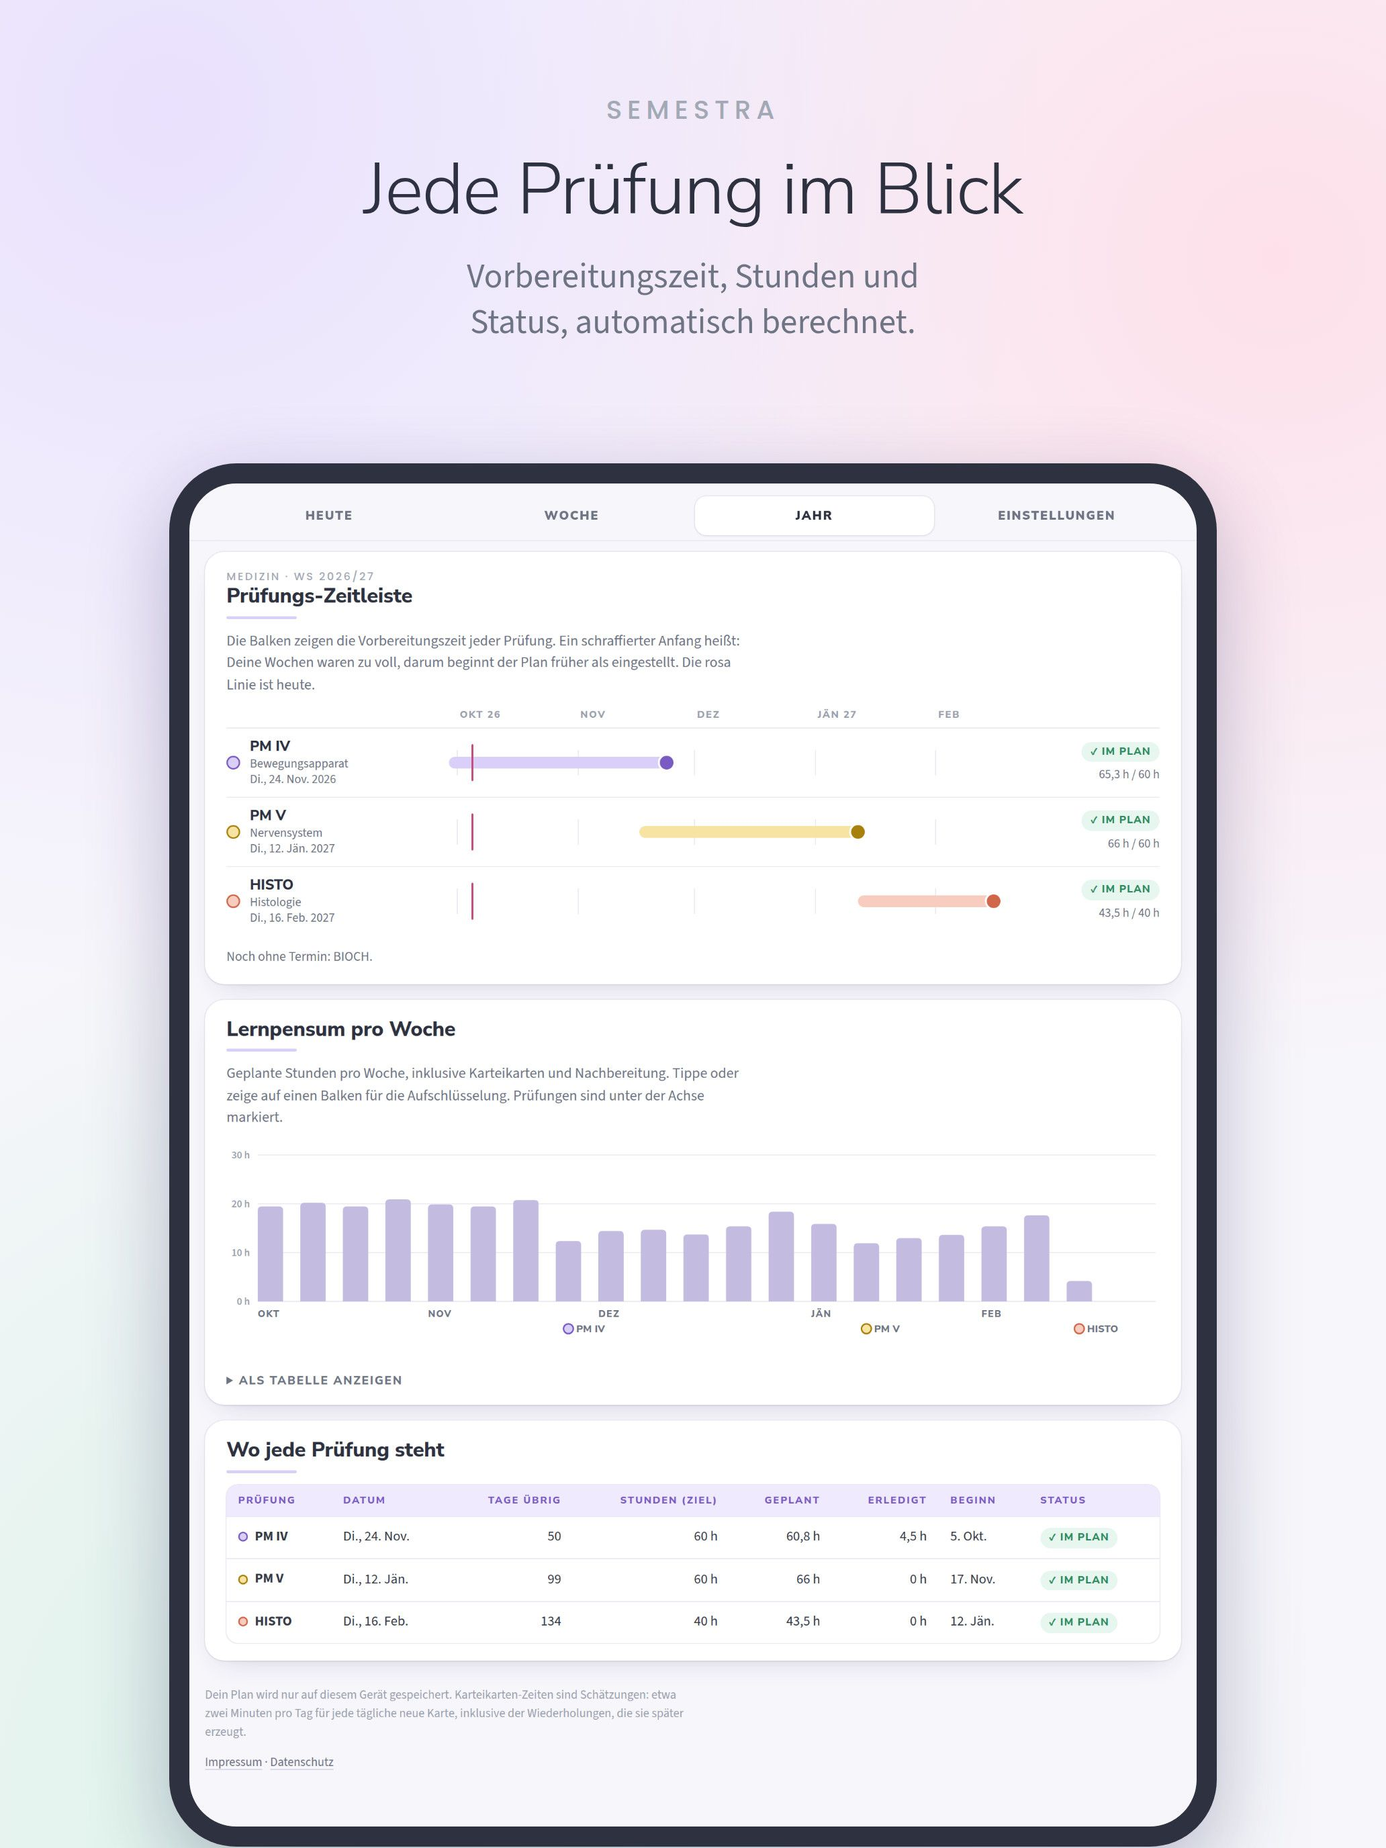
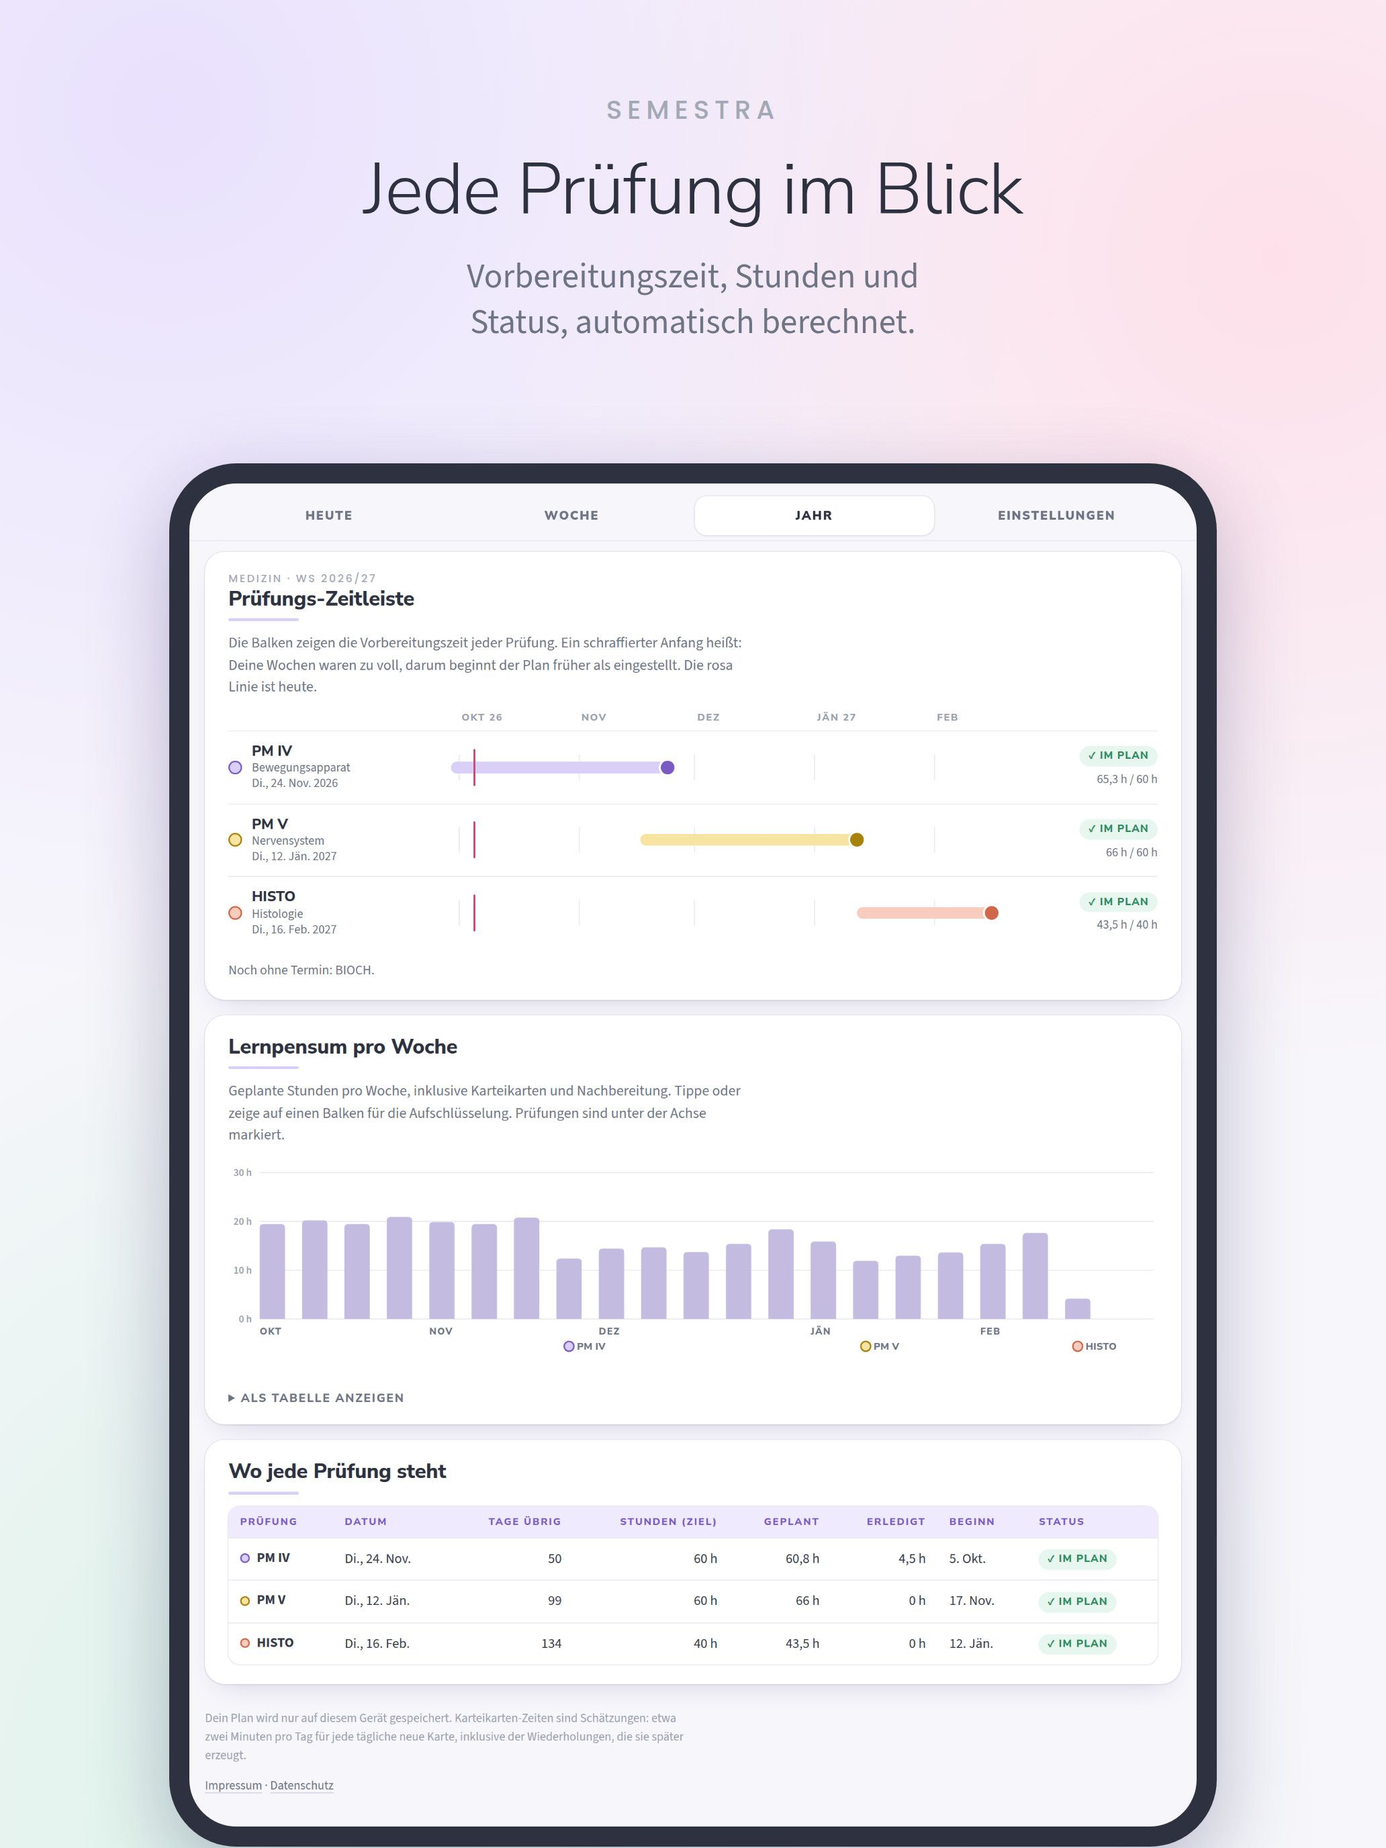
Make spacing, headings and labels uniform across the app
Measured every view (setup assistant, Today, Week, Year, Setup with all
sections open, a dialog) and removed the outliers:
- one inner spacing for all cards (--card-py/--card-px), incl. the header,
  the week card, the setup-assistant card and Setup folds; 20px corners
- one card heading style: Setup fold titles and Today's side-card titles
  use the h2 look
- header stats look like the pills and chips (pale, dashed)
- agenda tags match the status tags
- all list rows in Setup 12px apart; inputs exactly 40px with 12px corners

Claude-Session: https://claude.ai/code/session_01E171zcFhx6uJd6jSp7rjZZ

diff --git a/src/styles/legacy.css b/src/styles/legacy.css
@@ -106,7 +106,7 @@ button{cursor:pointer}
 .num{font-variant-numeric:tabular-nums}
 
 /* ============ masthead (cover blobs, kicker, light H1) ============ */
-.mast{position:relative;overflow:hidden;overflow:clip;isolation:isolate;border-radius:24px;background:var(--sheet);box-shadow:var(--raise);padding:24px clamp(18px,4vw,34px) 22px}
+.mast{position:relative;overflow:hidden;overflow:clip;isolation:isolate;border-radius:20px;background:var(--sheet);box-shadow:var(--raise);padding:var(--card-py) var(--card-px)}
 .blob{position:absolute;border-radius:50%;z-index:-1;pointer-events:none}
 .blob.b1{width:420px;height:420px;left:-170px;top:-220px;background:radial-gradient(circle,var(--blob1) 0%,transparent 68%)}
 .blob.b2{width:460px;height:460px;right:-190px;top:-150px;background:radial-gradient(circle,var(--blob2) 0%,transparent 68%)}
@@ -120,8 +120,7 @@ button{cursor:pointer}
 .mdots{position:absolute;right:22px;top:24px;display:flex;gap:6px}
 .mdots i{width:9px;height:9px;border-radius:50%}
 .stats{display:flex;flex-wrap:wrap;gap:8px;margin-top:16px}
-.stat{display:inline-flex;align-items:center;gap:8px;padding:6px 12px;border-radius:999px;background:var(--sheet);box-shadow:0 0 0 1px var(--line);font-size:13.5px;color:var(--ink-soft)}
-.stat b{color:var(--ink-strong);font-weight:700}
+.stat{display:inline-flex;align-items:center;gap:7px;border-radius:999px;white-space:nowrap}
 .dot{width:10px;height:10px;border-radius:50%;flex:none;background:var(--acc-mid,var(--grey-mid));box-shadow:inset 0 0 0 1.5px var(--acc,var(--grey))}
 .dot.lg{width:14px;height:14px}
 
@@ -132,11 +131,9 @@ button{cursor:pointer}
 .banner{margin:0 0 14px;padding:10px 14px;border-radius:14px;background:var(--info-bg);color:var(--info-fg);font-size:14px}
 
 /* ============ cards + handbook headings ============ */
-.card{background:var(--sheet);border-radius:20px;box-shadow:var(--raise);padding:18px clamp(14px,3vw,22px)}
+.card{background:var(--sheet);border-radius:20px;box-shadow:var(--raise);padding:var(--card-py) var(--card-px)}
 .h2{position:relative;margin:0;padding-bottom:10px;font:800 21px/1.22 var(--f-head);letter-spacing:-.005em;color:var(--ink-strong);text-wrap:balance}
 .h2::after{content:"";position:absolute;left:0;bottom:0;width:72px;height:3px;border-radius:3px;background:var(--acc-mid,var(--lav-mid))}
-.h3{display:flex;align-items:center;gap:9px;margin:0 0 10px;font:800 16px/1.28 var(--f-head);color:var(--ink-strong)}
-.h3::before{content:"";width:8px;height:8px;border-radius:50%;background:var(--acc,var(--lav));opacity:.8;flex:none}
 .sub{margin:12px 0 14px;color:var(--ink-soft);max-width:72ch;font-size:15px}
 .pill{display:inline-flex;align-items:center;gap:6px;padding:2px 11px;border-radius:999px;background:var(--acc-bg,var(--grey-bg));color:var(--acc,var(--grey));font:700 13px/1.5 var(--f-body);letter-spacing:.01em;white-space:nowrap}
 .pills{display:flex;flex-wrap:wrap;gap:6px;margin-top:12px}
@@ -182,7 +179,7 @@ button{cursor:pointer}
 .clsbar .cn{font-size:14px;color:var(--ink-soft)}
 .clsbar.tent{background:repeating-linear-gradient(135deg,var(--grey-bg) 0 6px,var(--sheet) 6px 12px)}
 .clsbar.est{background:transparent;box-shadow:inset 0 0 0 1.5px var(--grey-mid)}
-.tag{display:inline-block;padding:1px 8px;border-radius:999px;background:var(--sheet);box-shadow:0 0 0 1px var(--line-2);font:800 10px/1.6 var(--f-head);letter-spacing:.08em;text-transform:uppercase;color:var(--ink-soft)}
+.tag{display:inline-block;padding:2px 9px;border-radius:999px;background:var(--sheet);box-shadow:0 0 0 1px var(--line-2);font:800 10.5px/1.6 var(--f-head);letter-spacing:.07em;text-transform:uppercase;color:var(--ink-soft)}
 .modcard{--acc:var(--grey);--acc-bg:var(--grey-bg);--acc-mid:var(--grey-mid);display:grid;grid-template-columns:auto minmax(0,1fr) auto;align-items:center;gap:6px 10px;border-radius:14px;padding:6px 12px 6px 6px;background:var(--acc-bg);box-shadow:inset 3px 0 0 var(--acc-mid)}
 .modcard.ex{--acc:var(--x);--acc-bg:var(--x-bg);--acc-mid:var(--x-mid)}
 .modcard.anki{background:var(--sheet-2);box-shadow:inset 0 0 0 1.5px var(--line-2);border:0;outline:1.5px dashed var(--line-2);outline-offset:-1.5px}
@@ -222,7 +219,6 @@ button{cursor:pointer}
 .spill.grey{background:var(--grey-bg);color:var(--grey)}
 
 /* ============ week grid ============ */
-.card.week{padding-inline:clamp(10px,2.4vw,22px)}
 .chips{display:flex;flex-wrap:wrap;gap:6px;margin-top:14px}
 .chip{display:inline-flex;align-items:center;gap:7px;padding:4px 11px;border-radius:999px;background:var(--sheet);box-shadow:0 0 0 1px var(--line);font-size:13.5px;color:var(--ink-soft);font-variant-numeric:tabular-nums}
 .chip b{color:var(--ink-strong)}
@@ -268,7 +264,7 @@ button{cursor:pointer}
 .g-head{grid-template-areas:". months ."}
 .g-months{grid-area:months;position:relative;height:18px}
 .g-months span{position:absolute;top:0;padding-left:3px;font:800 10px/1 var(--f-head);letter-spacing:.1em;text-transform:uppercase;color:var(--ink-faint);white-space:nowrap}
-.g-row{padding:10px 0;border-top:1px solid var(--line)}
+.g-row{padding:12px 0;border-top:1px solid var(--line)}
 .g-lab{grid-area:lab;display:flex;gap:10px;align-items:center;min-width:0}
 .g-lab b{display:block;font:800 14.5px/1.2 var(--f-head);color:var(--ink-strong)}
 .g-lab small{display:block;color:var(--ink-soft);font-size:12.5px;line-height:1.3}
@@ -307,27 +303,27 @@ details.more summary{cursor:pointer;font:800 12px/1.2 var(--f-head);letter-spaci
 .fgrid{display:grid;gap:12px;grid-template-columns:repeat(auto-fill,minmax(140px,1fr))}
 .fld{display:grid;grid-template-columns:minmax(0,1fr);gap:5px;min-width:0;align-content:end}
 .fld>label,.lbl{overflow-wrap:break-word;font:800 10.5px/1.25 var(--f-head);letter-spacing:.13em;text-transform:uppercase;color:var(--ink-soft)}
-.fld input,.fld select{width:100%;min-width:0;min-height:40px;border:1px solid var(--line-2);border-radius:10px;padding:7px 10px;background:var(--sheet);color:var(--ink-strong);font-size:15px}
+.fld input,.fld select{width:100%;min-width:0;height:40px;border:1px solid var(--line-2);border-radius:12px;padding:7px 10px;background:var(--sheet);color:var(--ink-strong);font-size:15px}
 .fld input::placeholder{color:var(--ink-faint)}
 .grp{margin-top:18px;padding-top:16px;border-top:1px solid var(--line)}
 .grp > .lbl{display:block;margin-bottom:10px}
-.ex-row{display:grid;gap:10px;align-items:end;padding:14px 0;border-top:1px solid var(--line);grid-template-columns:22px repeat(4,minmax(0,1fr)) 38px;grid-template-areas:"dot short name name name del" ". date date size size ." ". hours hours weeks weeks ."}
+.ex-row{display:grid;gap:10px;align-items:end;padding:12px 0;border-top:1px solid var(--line);grid-template-columns:22px repeat(4,minmax(0,1fr)) 38px;grid-template-areas:"dot short name name name del" ". date date size size ." ". hours hours weeks weeks ."}
 @media (min-width:1080px){.ex-row{grid-template-columns:18px 84px minmax(150px,1fr) 150px 96px 72px 80px 38px;grid-template-areas:"dot short name date size hours weeks del"}}
 .ex-row > .dot{grid-area:dot;align-self:center;justify-self:center}
 .ex-row .f-short{grid-area:short}.ex-row .f-name{grid-area:name}.ex-row .f-date{grid-area:date}.ex-row .f-size{grid-area:size}
 .ex-row .f-hours{grid-area:hours}.ex-row .f-weeks{grid-area:weeks}
 .ex-row .del{grid-area:del;align-self:center}
 .confirm{display:flex;flex-wrap:wrap;gap:8px;align-items:center;justify-content:space-between;grid-column:1/-1;padding:10px 12px;border-radius:12px;background:var(--achtung-bg);color:var(--achtung-fg);font-size:14px}
-.co-row{display:grid;grid-template-columns:86px minmax(0,1.2fr) minmax(0,1fr) auto;gap:10px;align-items:center;padding:10px 0;border-top:1px solid var(--line)}
+.co-row{display:grid;grid-template-columns:86px minmax(0,1.2fr) minmax(0,1fr) auto;gap:10px;align-items:center;padding:12px 0;border-top:1px solid var(--line)}
 @media (max-width:680px){.co-row{grid-template-columns:minmax(0,1fr) minmax(0,1fr)}.co-row .code{grid-column:1/-1}}
-.co-row input[type=text],.co-row select{width:100%;min-height:40px;border:1px solid var(--line-2);border-radius:10px;padding:7px 10px;background:var(--sheet);color:var(--ink-strong);font-size:15px}
+.co-row input[type=text],.co-row select{width:100%;height:40px;border:1px solid var(--line-2);border-radius:12px;padding:7px 10px;background:var(--sheet);color:var(--ink-strong);font-size:15px}
 .code{font:800 14px/1.2 var(--f-head);letter-spacing:.05em;color:var(--ink-strong)}
 .code small{display:block;font:600 11.5px/1.3 var(--f-body);letter-spacing:0;color:var(--ink-soft)}
 .tpl{display:grid;gap:8px;max-width:520px}
 .tpl-day{display:grid;grid-template-columns:48px 1fr 1fr;gap:8px;align-items:center;font:800 12px/1 var(--f-head);letter-spacing:.08em;text-transform:uppercase;color:var(--ink-soft)}
-.tchip{min-height:38px;border-radius:10px;border:1.5px dashed var(--line-2);background:transparent;font:700 13.5px/1 var(--f-body);color:var(--ink-soft);font-variant-numeric:tabular-nums}
+.tchip{min-height:40px;border-radius:12px;border:1.5px dashed var(--line-2);background:transparent;font:700 13.5px/1 var(--f-body);color:var(--ink-soft);font-variant-numeric:tabular-nums}
 .tchip[aria-pressed="true"]{background:var(--grey-bg);border-style:solid;border-color:var(--grey-mid);color:var(--ink-strong)}
-.brk-row{display:grid;grid-template-columns:minmax(0,1.4fr) minmax(0,1fr) minmax(0,1fr) 38px;gap:10px;align-items:end;padding:8px 0}
+.brk-row{display:grid;grid-template-columns:minmax(0,1.4fr) minmax(0,1fr) minmax(0,1fr) 38px;gap:10px;align-items:end;padding:12px 0}
 @media (max-width:600px){.brk-row{grid-template-columns:minmax(0,1fr) minmax(0,1fr) 38px}.brk-row .fld:first-child{grid-column:1/-1}}
 .swt{display:inline-flex;align-items:center;gap:10px;min-height:40px;font-size:14.5px;color:var(--ink);cursor:pointer}
 .swt input{appearance:none;-webkit-appearance:none;width:42px;height:24px;margin:0;border-radius:999px;background:var(--line-2);position:relative;flex:none;cursor:pointer;transition:background .15s}

diff --git a/src/styles/app.css b/src/styles/app.css
@@ -1,6 +1,8 @@
 @import './legacy.css';
 
 /* ============ app additions (same Pastell tokens) ============ */
+/* One inner spacing for every card (cards, header, setup assistant, Setup folds) */
+:root{--card-py:20px;--card-px:clamp(16px,4vw,24px)}
 html{-webkit-text-size-adjust:100%;text-size-adjust:100%}
 /* Nothing may ever widen the page: whatever pokes out sideways is clipped (clip, unlike hidden, keeps the sticky
    tab bar working), so the page can't be dragged sideways on phones. */
@@ -26,7 +28,7 @@ body{min-height:100vh;min-height:100dvh}
   clip-path:inset(calc(-9px - env(safe-area-inset-top,0px)) calc(-1 * var(--br,0px)) -1px calc(-1 * var(--bl,0px)) round 0)}
 
 /* flashcard decks (Setup → Flashcards and the setup assistant), laid out like the exam rows */
-.deck-row{display:grid;gap:10px;align-items:end;padding:14px 0;border-top:1px solid var(--line);grid-template-columns:22px repeat(3,minmax(0,1fr)) 38px;
+.deck-row{display:grid;gap:10px;align-items:end;padding:12px 0;border-top:1px solid var(--line);grid-template-columns:22px repeat(3,minmax(0,1fr)) 38px;
   grid-template-areas:"dot name name exam del" ". cards newd rev ."}
 @media (min-width:1080px){.deck-row{grid-template-columns:18px minmax(150px,1fr) 190px 120px 100px 150px 38px;grid-template-areas:"dot name exam cards newd rev del"}}
 .deck-row > .dot{grid-area:dot;align-self:center;justify-self:center}
@@ -50,7 +52,7 @@ body{min-height:100vh;min-height:100dvh}
 
 /* onboarding */
 .ob{padding-top:4px}
-.ob-card{position:relative;overflow:hidden;overflow:clip;isolation:isolate;border-radius:24px;background:var(--sheet);box-shadow:var(--raise);padding:26px clamp(18px,4vw,36px) 24px;max-width:880px;margin:0 auto}
+.ob-card{position:relative;overflow:hidden;overflow:clip;isolation:isolate;border-radius:20px;background:var(--sheet);box-shadow:var(--raise);padding:var(--card-py) var(--card-px);max-width:880px;margin:0 auto}
 .ob-body{position:relative}
 .ob-h1{margin:10px 0 0;font:300 clamp(30px,6vw,44px)/1.08 var(--f-head);color:var(--ink-strong);letter-spacing:-.015em;text-wrap:balance}
 .ob-h1:focus,.ob .h2:focus{outline:none}
@@ -122,18 +124,18 @@ input::-webkit-date-and-time-value{text-align:left;min-height:1.4em}
 /* Setup sections that fold open (parts/Fold.tsx): heading with an accent bar and a one-line hint, arrow on the right */
 .card.fold{padding:0;scroll-margin-top:calc(env(safe-area-inset-top,0px) + 76px)} /* jumps land below the sticky tab bar */
 .fold-h{margin:0;font:inherit}
-.fold-h button{display:flex;align-items:center;gap:14px;width:100%;padding:18px clamp(14px,3vw,22px);border:0;border-radius:20px;background:transparent;color:inherit;font:inherit;text-align:left;cursor:pointer;-webkit-tap-highlight-color:transparent}
+.fold-h button{display:flex;align-items:center;gap:14px;width:100%;padding:var(--card-py) var(--card-px);border:0;border-radius:20px;background:transparent;color:inherit;font:inherit;text-align:left;cursor:pointer;-webkit-tap-highlight-color:transparent}
 .fold-h button:focus-visible{outline:2px solid var(--acc,var(--lav));outline-offset:-3px}
 .fold-t{position:relative;flex:1;min-width:0;padding-left:14px}
 .fold-t::before{content:"";position:absolute;left:0;top:3px;bottom:3px;width:4px;border-radius:4px;background:var(--acc-mid,var(--lav-mid))}
-.fold-title{display:block;font:800 19px/1.25 var(--f-head);color:var(--ink-strong);letter-spacing:-.005em}
+.fold-title{display:block;font:800 21px/1.22 var(--f-head);color:var(--ink-strong);letter-spacing:-.005em}
 .fold-hint{display:block;margin-top:3px;font-size:14.5px;line-height:1.4;color:var(--ink-soft)}
 .fold-chev{position:relative;flex:none;width:34px;height:34px;border-radius:50%;background:var(--sunk);box-shadow:0 0 0 1px var(--line);transition:background-color .15s ease,transform .25s ease}
 .fold-chev::before{content:"";position:absolute;left:50%;top:50%;width:8px;height:8px;border-right:2px solid var(--ink-soft);border-bottom:2px solid var(--ink-soft);transform:translate(-50%,-70%) rotate(45deg)}
 .fold-h button:hover .fold-chev{background:var(--acc-bg,var(--lav-bg))}
 .fold.open .fold-chev{transform:rotate(180deg);background:var(--acc-bg,var(--lav-bg))}
 .fold.open .fold-h button{border-radius:20px 20px 0 0}
-.fold-body{padding:16px clamp(14px,3vw,22px) 20px;border-top:1px solid var(--line)}
+.fold-body{padding:16px var(--card-px) var(--card-py);border-top:1px solid var(--line)}
 .fold-body > .sub:first-child{margin-top:0}
 
 /* Buttons inside a coloured box or banner take the box's colour instead of black */
@@ -141,8 +143,13 @@ input::-webkit-date-and-time-value{text-align:left;min-height:1.4em}
 .box .btn.soft{background:var(--sheet);color:var(--bx-fg,var(--ink-strong));box-shadow:0 0 0 1px var(--bx-ring,var(--line))}
 .ex-banner .btn:not(.soft):not(.ghost){background:var(--lav);color:var(--sheet)}
 
-/* Info pills and chips (under the date on Today, the totals on Week, imported weeks) are labels, not buttons:
-   very pale fill, dashed outline in their colour */
+/* Info pills, chips and stats (under the date on Today, the totals on Week, the header, imported weeks) are labels,
+   not buttons: one size, very pale fill, dashed outline in their colour */
+.stat{padding:1px 10px;font:700 13px/1.5 var(--f-body);letter-spacing:.01em;color:var(--acc,var(--grey));
+  background:var(--acc-bg,var(--grey-bg));background:color-mix(in srgb,var(--acc-bg,var(--grey-bg)) 40%,var(--sheet));border:1px dashed var(--acc-mid,var(--grey-mid))}
+.stat b{color:inherit;font-weight:800}
+/* card titles that aren't the page's main heading use the same h2 look; this gives them room below */
+.card > h3.h2{margin-bottom:14px}
 .chip{padding:1px 10px;font:700 13px/1.5 var(--f-body);letter-spacing:.01em;color:var(--acc,var(--grey));box-shadow:none;
   background:var(--acc-bg,var(--grey-bg));background:color-mix(in srgb,var(--acc-bg,var(--grey-bg)) 40%,var(--sheet));border:1px dashed var(--acc-mid,var(--grey-mid))}
 .chip b{color:inherit;font-weight:800}

diff --git a/src/ui/views/Today.tsx b/src/ui/views/Today.tsx
@@ -130,7 +130,7 @@ export function TodayView() {
         {st.cards.on && <CardsCard v={v} />}
         <NextExams />
         <section className="card">
-          <div className="h3">{t('changed.title')}</div>
+          <h3 className="h2">{t('changed.title')}</h3>
           <p className="small muted" style={{ margin: '0 0 10px' }}>
             {t('changed.body')}
           </p>
@@ -302,7 +302,7 @@ function CardsCard({ v }: { v: DayView }) {
   const total = planned.length ? planned.reduce((s, m) => s + m.min, 0) : a.reviews + a.learn;
   return (
     <section className="card anki-card">
-      <div className="h3">{t('cards.title')}</div>
+      <h3 className="h2">{t('cards.title')}</h3>
       <div className="big">~{f.dur(total)}</div>
       <ul className="kv">
         <li>
@@ -336,7 +336,7 @@ function NextExams() {
   if (!list.length)
     return (
       <section className="card">
-        <div className="h3">{t('next.title')}</div>
+        <h3 className="h2">{t('next.title')}</h3>
         <p className="small muted" style={{ margin: '0 0 10px' }}>
           {t('next.none')}
         </p>
@@ -347,7 +347,7 @@ function NextExams() {
     );
   return (
     <section className="card">
-      <div className="h3">{t('next.title')}</div>
+      <h3 className="h2">{t('next.title')}</h3>
       <ul className="nx">
         {list.map((x) => {
           const e = examById(data, x.id);

diff --git a/CLAUDE.md b/CLAUDE.md
@@ -134,7 +134,9 @@ are in `src/styles/legacy.css`: `:root` plus two identical dark blocks (media qu
   - The fonts are self-hosted from `public/fonts` under the OFL. Source Sans 3 has a Reserved Font Name,
     so never subset, convert or rename the font files.
 - **Cards and charts:**
-  - Cards are white on #f7f6fb, with a 20 px radius, a #ebe8f2 hairline and a soft drop shadow (`--raise`).
+  - Cards are white on #f7f6fb, with a 20 px radius, a #ebe8f2 hairline and a soft drop shadow (`--raise`). Every
+    card (header, setup assistant, Setup folds too) uses the same inner spacing `--card-py`/`--card-px` and one
+    heading style (`.h2`); info labels (`.pill`, `.chip`, `.stat`) share one look. Keep new elements on these.
   - Charts use one series in #c3bce0 (highlighted #8b80c4).
   - The "today" line is #c4517f.
 - **Checks:** check every visual change in light mode, dark mode and a narrow phone layout (≤ 640 px).
